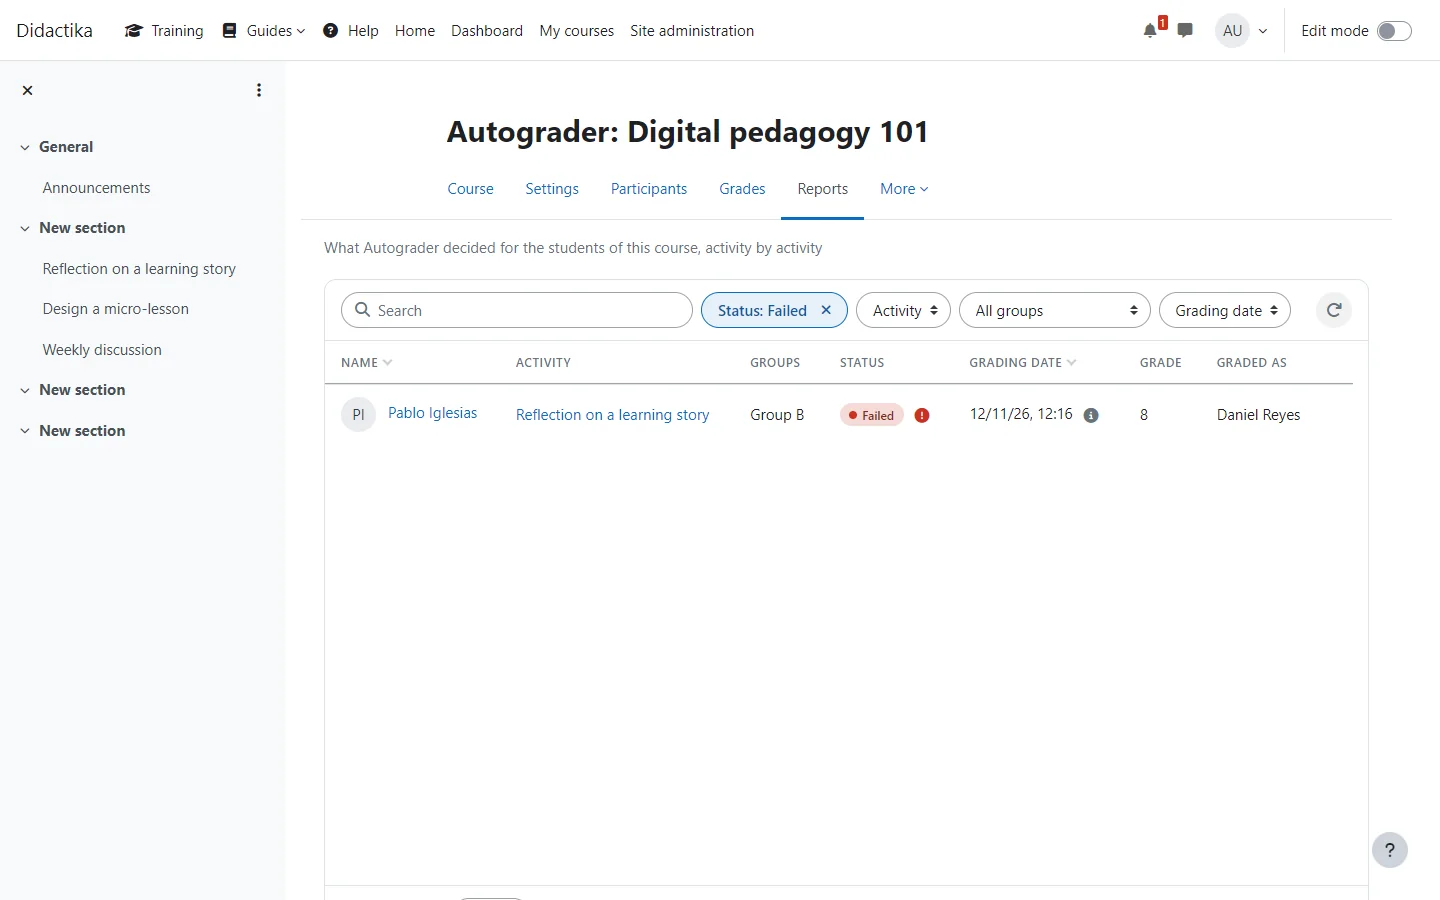
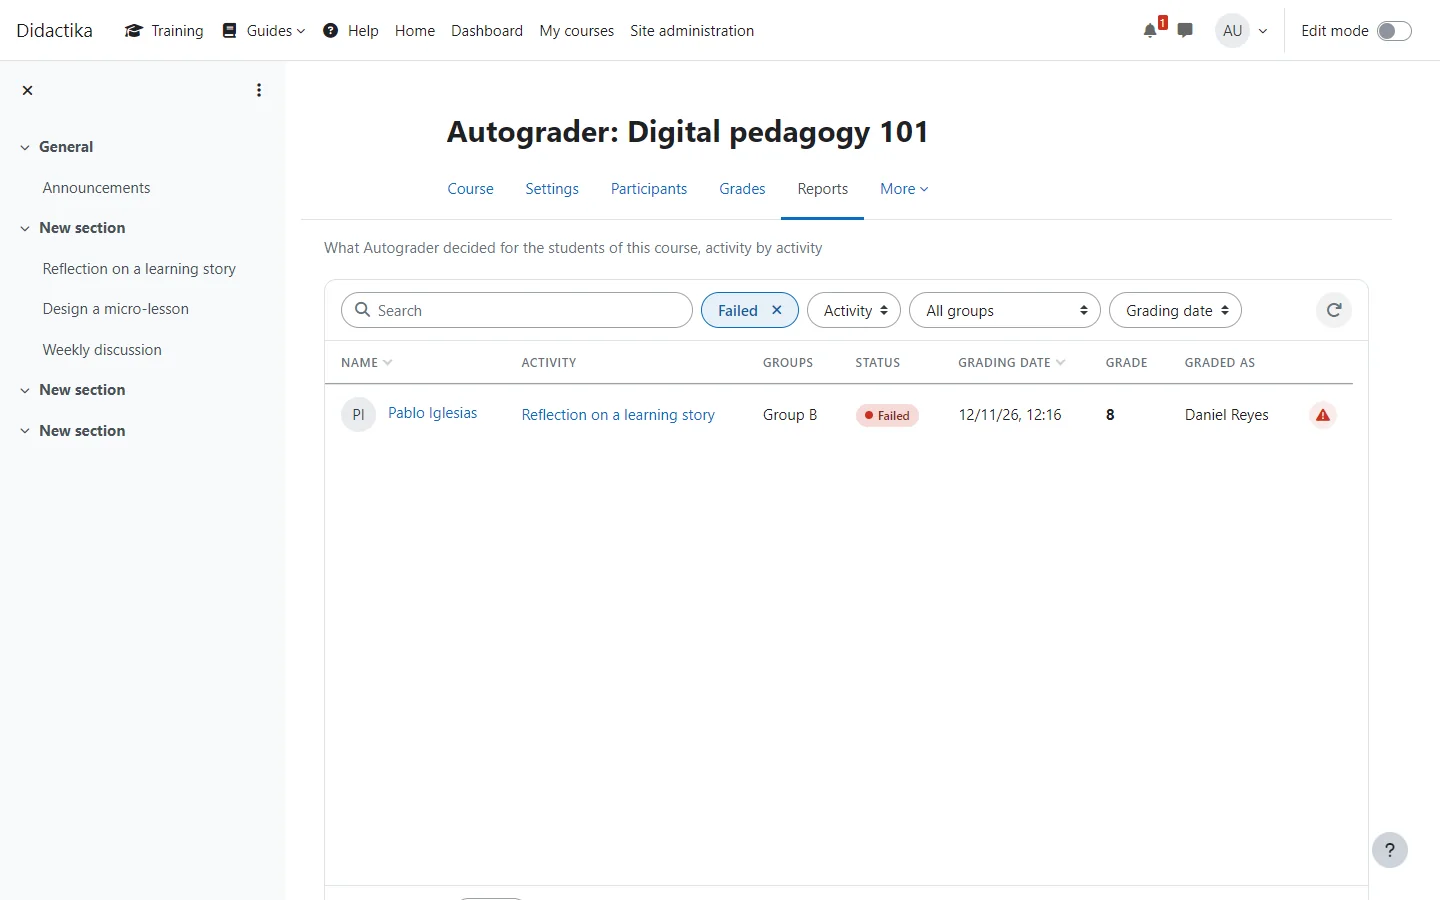
docs: the details of a row, the filters that say only their value and the grouped toolbar; the breadcrumb of the graders of a course
The user manual shows the dialog with the details of a row and describes the
menus that say only their value and the Filters menu that gathers them when they
do not fit. The requirements and the domain model gain the rules of the details,
of the columns that keep their width and of the row of filters, and the Spanish
use-case diagrams are drawn again in Spanish with every use case. The screenshots
are taken again in Moodle 4.5.

The page of the graders of one course keeps the breadcrumb of the administration.

diff --git a/graders.php b/graders.php
@@ -40,7 +40,9 @@ $perpage = optional_param('perpage', grader_list::PER_PAGE, PARAM_INT);
 $filter = optional_param('filter', grader_list::FILTER_ALL, PARAM_ALPHA);
 
 require_login();
-admin_externalpage_setup('reportautogradergraders');
+// The page of one course is the same node of the administration tree as the list of courses, so the breadcrumb stays.
+navigation_node::override_active_url(new moodle_url('/report/autograder/graders.php'));
+admin_externalpage_setup('reportautogradergraders', '', null, new moodle_url('/report/autograder/graders.php'));
 
 $baseurl = new moodle_url('/report/autograder/graders.php', array_filter(['courseid' => $courseid]));
 

diff --git a/docs/es/technical/requirements/use-cases/viewReport/README.md b/docs/es/technical/requirements/use-cases/viewReport/README.md
@@ -61,6 +61,7 @@ Un docente necesita ver, para cada estudiante, lo que Autograder decidió: el es
 | A2 | 2 | La actividad tiene grupos separados. | Deja fuera a los estudiantes de los grupos que el docente no puede ver. | Paso 3 |
 | A3 | 4 | El lector no puede ver los fallos. | Muestra a un estudiante con error como no autocalificado. | Paso 3 |
 | A4 | 1 | Es la primera vez que el lector abre el informe de una actividad o de un curso. | Presenta el informe con un recorrido guiado de siete pasos; cuando el sitio exige el recorrido, este no tiene botón para omitirlo antes de su último paso. | Paso 2 |
+| A5 | 4 | El lector pulsa el botón situado al final de una fila. | Abre el detalle de la fila en un diálogo: primero lo que falló, después el estado, la fecha de calificación y en qué se basa, la calificación y el día en que se registrará, y el calificador y cómo se elige. | Paso 3 |
 
 ## Reglas de negocio
 
@@ -73,6 +74,8 @@ Un docente necesita ver, para cada estudiante, lo que Autograder decidió: el es
 | RN-007 | Un estudiante al que las restricciones de acceso de la actividad dejan fuera no se enumera como sin entregar: no puede abrir la actividad, de modo que el informe no dice nada de él. |
 | RN-009 | El paginador ofrece solo los tamaños de página menores que la lista, y Todos: hasta 12 filas, Todos; de 13 a 24, 12 y Todos; y así hasta 12, 24, 48, 96 y Todos. Una lista empieza con 12 filas; Todos se envía a los servicios como -1, que estos limitan. |
 | RN-011 | La primera vez que una persona abre el informe de una actividad o de un curso, un recorrido guiado lo presenta; cuando el sitio lo exige, el recorrido no puede omitirse antes de su último paso. |
+| RN-012 | El botón que abre el detalle de una fila toma el color de lo más grave que contiene: información, un problema que aún puede resolverse o una calificación con error. Una calificación que aún no está en el libro de calificaciones lleva la etiqueta Provisional, y una fila sin calificación muestra un guion. |
+| RN-013 | Las columnas de la tabla conservan el ancho que tenían la primera vez que la tabla tuvo filas; un filtro, una ordenación u otra página nunca las mueven. Se miden de nuevo solo cuando cambia el ancho del recuadro de la tabla. |
 
 ## Especificación
 

diff --git a/docs/en/technical/requirements/use-cases/viewReport/README.md b/docs/en/technical/requirements/use-cases/viewReport/README.md
@@ -61,6 +61,7 @@ A teacher needs to see, for each student, what Autograder decided: the status, t
 | A2 | 2 | The activity has separate groups. | Leaves out the students of groups the teacher cannot see. | Step 3 |
 | A3 | 4 | The reader cannot see failures. | Shows a failed student as not autograded. | Step 3 |
 | A4 | 1 | It is the first time the reader opens the report of an activity or of a course. | Presents the report with a guided tour of seven steps; when the site requires the tour, it has no button to skip it before its last step. | Step 2 |
+| A5 | 4 | The reader presses the button at the end of a row. | Opens the details of the row in a dialog: first what went wrong, then the status, the grading date and what it is based on, the grade and the day it will be recorded, and the grader and how that grader is chosen. | Step 3 |
 
 ## Business rules
 
@@ -73,6 +74,8 @@ A teacher needs to see, for each student, what Autograder decided: the status, t
 | RN-007 | A student that the access restrictions of the activity leave out is not listed as not submitted: they cannot open the activity, so the report says nothing about them. |
 | RN-009 | The pager offers only the sizes of page smaller than the list, and All: up to 12 rows, All; 13 to 24, 12 and All; and so on up to 12, 24, 48, 96 and All. A list starts with 12 rows; All is sent to the services as -1, which they cap. |
 | RN-011 | The first time a person opens the report of an activity or of a course, a guided tour presents it; when the site requires it, the tour cannot be skipped before its last step. |
+| RN-012 | The button that opens the details of a row takes the colour of the most serious thing in them: information, a problem that can still be solved, or a failed grading. A grade that is not in the gradebook yet carries the label Provisional, and a row without a grade shows a dash. |
+| RN-013 | The columns of the table keep the width they had the first time the table had rows; a filter, a sort or another page never moves them. They are measured again only when the box of the table changes width. |
 
 ## Specification
 

diff --git a/docs/es/technical/domain/README.md b/docs/es/technical/domain/README.md
@@ -55,6 +55,9 @@ La posición vertical de una entidad expresa su importancia para el objetivo del
 | RN-009 | El paginador ofrece solo los tamaños de página menores que la lista, y Todos: hasta 12 filas, Todos; de 13 a 24, 12 y Todos; y así hasta 12, 24, 48, 96 y Todos. Una lista empieza con 12 filas; Todos se envía a los servicios como -1, que estos limitan. | Filter | `amd/src/ui/pagination.js`, `get_report::normalise_limit`, `grader_list::page_size` |
 | RN-010 | Cada filtro es un menú que nunca ofrece su estado base como opción; al elegir un valor, el menú se resalta y una cruz ocupa el lugar de su flecha para quitarlo. Un botón al final de la fila quita todos los filtros. | Filter | `amd/src/ui/toolbar.js` |
 | RN-011 | La primera vez que una persona abre el informe de una actividad o de un curso, un recorrido guiado lo presenta; cuando el sitio lo exige, el recorrido no puede omitirse antes de su último paso. | Scope | `tours/report.json`, `report_autograder_import_tours`, `report_autograder/tourrequired` |
+| RN-012 | El botón que abre el detalle de una fila toma el color de lo más grave que contiene: información, un problema que aún puede resolverse o una calificación con error. Una calificación que aún no está en el libro de calificaciones lleva la etiqueta Provisional, y una fila sin calificación muestra un guion. | ReportRow | `templates/table/_row.mustache`, `templates/table/row_details.mustache`, `amd/src/ui/report.js` |
+| RN-013 | Las columnas de la tabla conservan el ancho que tenían la primera vez que la tabla tuvo filas; un filtro, una ordenación u otra página nunca las mueven. Se miden de nuevo solo cuando cambia el ancho del recuadro de la tabla. | ReportRow | `amd/src/ui/report.js` |
+| RN-014 | La fila de filtros nunca se divide en dos líneas: cuando los menús no caben junto a la búsqueda (10 rem), se reúnen en un único menú, Filtros, con el número de filtros en uso, y se separan de nuevo cuando hay espacio. | Filter | `amd/src/ui/toolbar.js` |
 
 ## Ciclos de vida
 

diff --git a/docs/en/technical/domain/README.md b/docs/en/technical/domain/README.md
@@ -55,6 +55,9 @@ The vertical position of an entity expresses its importance to the project objec
 | RN-009 | The pager offers only the sizes of page smaller than the list, and All: up to 12 rows, All; 13 to 24, 12 and All; and so on up to 12, 24, 48, 96 and All. A list starts with 12 rows; All is sent to the services as -1, which they cap. | Filter | `amd/src/ui/pagination.js`, `get_report::normalise_limit`, `grader_list::page_size` |
 | RN-010 | Each filter is a menu that never offers its base state as an option; once a value is chosen, the menu is highlighted and a cross takes the place of its arrow to clear it. A button at the end of the row clears every filter. | Filter | `amd/src/ui/toolbar.js` |
 | RN-011 | The first time a person opens the report of an activity or of a course, a guided tour presents it; when the site requires it, the tour cannot be skipped before its last step. | Scope | `tours/report.json`, `report_autograder_import_tours`, `report_autograder/tourrequired` |
+| RN-012 | The button that opens the details of a row takes the colour of the most serious thing in them: information, a problem that can still be solved, or a failed grading. A grade that is not in the gradebook yet carries the label Provisional, and a row without a grade shows a dash. | ReportRow | `templates/table/_row.mustache`, `templates/table/row_details.mustache`, `amd/src/ui/report.js` |
+| RN-013 | The columns of the table keep the width they had the first time the table had rows; a filter, a sort or another page never moves them. They are measured again only when the box of the table changes width. | ReportRow | `amd/src/ui/report.js` |
+| RN-014 | The row of filters is never split in two lines: when the menus do not fit beside the search (10 rem), they are gathered in one menu, Filters, with the number of filters in use, and they come apart again when there is room. | Filter | `amd/src/ui/toolbar.js` |
 
 ## Lifecycles
 

diff --git a/docs/es/technical/requirements/use-cases/narrowReport/README.md b/docs/es/technical/requirements/use-cases/narrowReport/README.md
@@ -66,7 +66,8 @@ Un informe puede enumerar miles de filas. La barra de herramientas lo acota con 
 | --- | --- |
 | RN-008 | El recuento de cada estado se calcula dentro de todos los demás filtros salvo el propio estado, de modo que elegir un estado no oculte los números de los demás. |
 | RN-009 | El paginador ofrece solo los tamaños de página menores que la lista, y Todos: hasta 12 filas, Todos; de 13 a 24, 12 y Todos; y así hasta 12, 24, 48, 96 y Todos. Una lista empieza con 12 filas; Todos se envía a los servicios como -1, que estos limitan. |
-| RN-010 | Cada filtro es un menú que nunca ofrece su estado base como opción; al elegir un valor, el menú se resalta y una cruz ocupa el lugar de su flecha para quitarlo. Un botón al final de la fila quita todos los filtros. |
+| RN-010 | Cada filtro es un menú que nunca ofrece su estado base como opción; al elegir un valor, el menú se resalta y una cruz ocupa el lugar de su flecha para quitarlo. Un botón al final de la fila quita todos los filtros. Un menú elegido muestra solo su valor, o el nombre del filtro y cuántos valores hay elegidos. |
+| RN-014 | La fila de filtros nunca se divide en dos líneas: cuando los menús no caben junto a la búsqueda (10 rem), se reúnen en un único menú, Filtros, con el número de filtros en uso, y se separan de nuevo cuando hay espacio. |
 | RN-002 | El informe del sitio no se ejecuta sin un filtro. |
 | RN-003 | Los fallos se muestran solo a los lectores que pueden verlos. |
 | RN-004 | Un docente ve solo los grupos que puede ver. |

diff --git a/docs/en/technical/requirements/use-cases/narrowReport/README.md b/docs/en/technical/requirements/use-cases/narrowReport/README.md
@@ -66,7 +66,8 @@ A report can list thousands of rows. The toolbar narrows it with the search and 
 | --- | --- |
 | RN-008 | The count of each status is computed inside every other filter except the status, so that choosing a status does not hide the numbers of the others. |
 | RN-009 | The pager offers only the sizes of page smaller than the list, and All: up to 12 rows, All; 13 to 24, 12 and All; and so on up to 12, 24, 48, 96 and All. A list starts with 12 rows; All is sent to the services as -1, which they cap. |
-| RN-010 | Each filter is a menu that never offers its base state as an option; once a value is chosen, the menu is highlighted and a cross takes the place of its arrow to clear it. A button at the end of the row clears every filter. |
+| RN-010 | Each filter is a menu that never offers its base state as an option; once a value is chosen, the menu is highlighted and a cross takes the place of its arrow to clear it. A button at the end of the row clears every filter. A chosen menu shows only its value, or the name of the filter and how many values are chosen. |
+| RN-014 | The row of filters is never split in two lines: when the menus do not fit beside the search (10 rem), they are gathered in one menu, Filters, with the number of filters in use, and they come apart again when there is room. |
 | RN-002 | The report of the site does not run without a filter. |
 | RN-003 | Failures are shown only to readers who can see them. |
 | RN-004 | A teacher sees only the groups they can see. |
